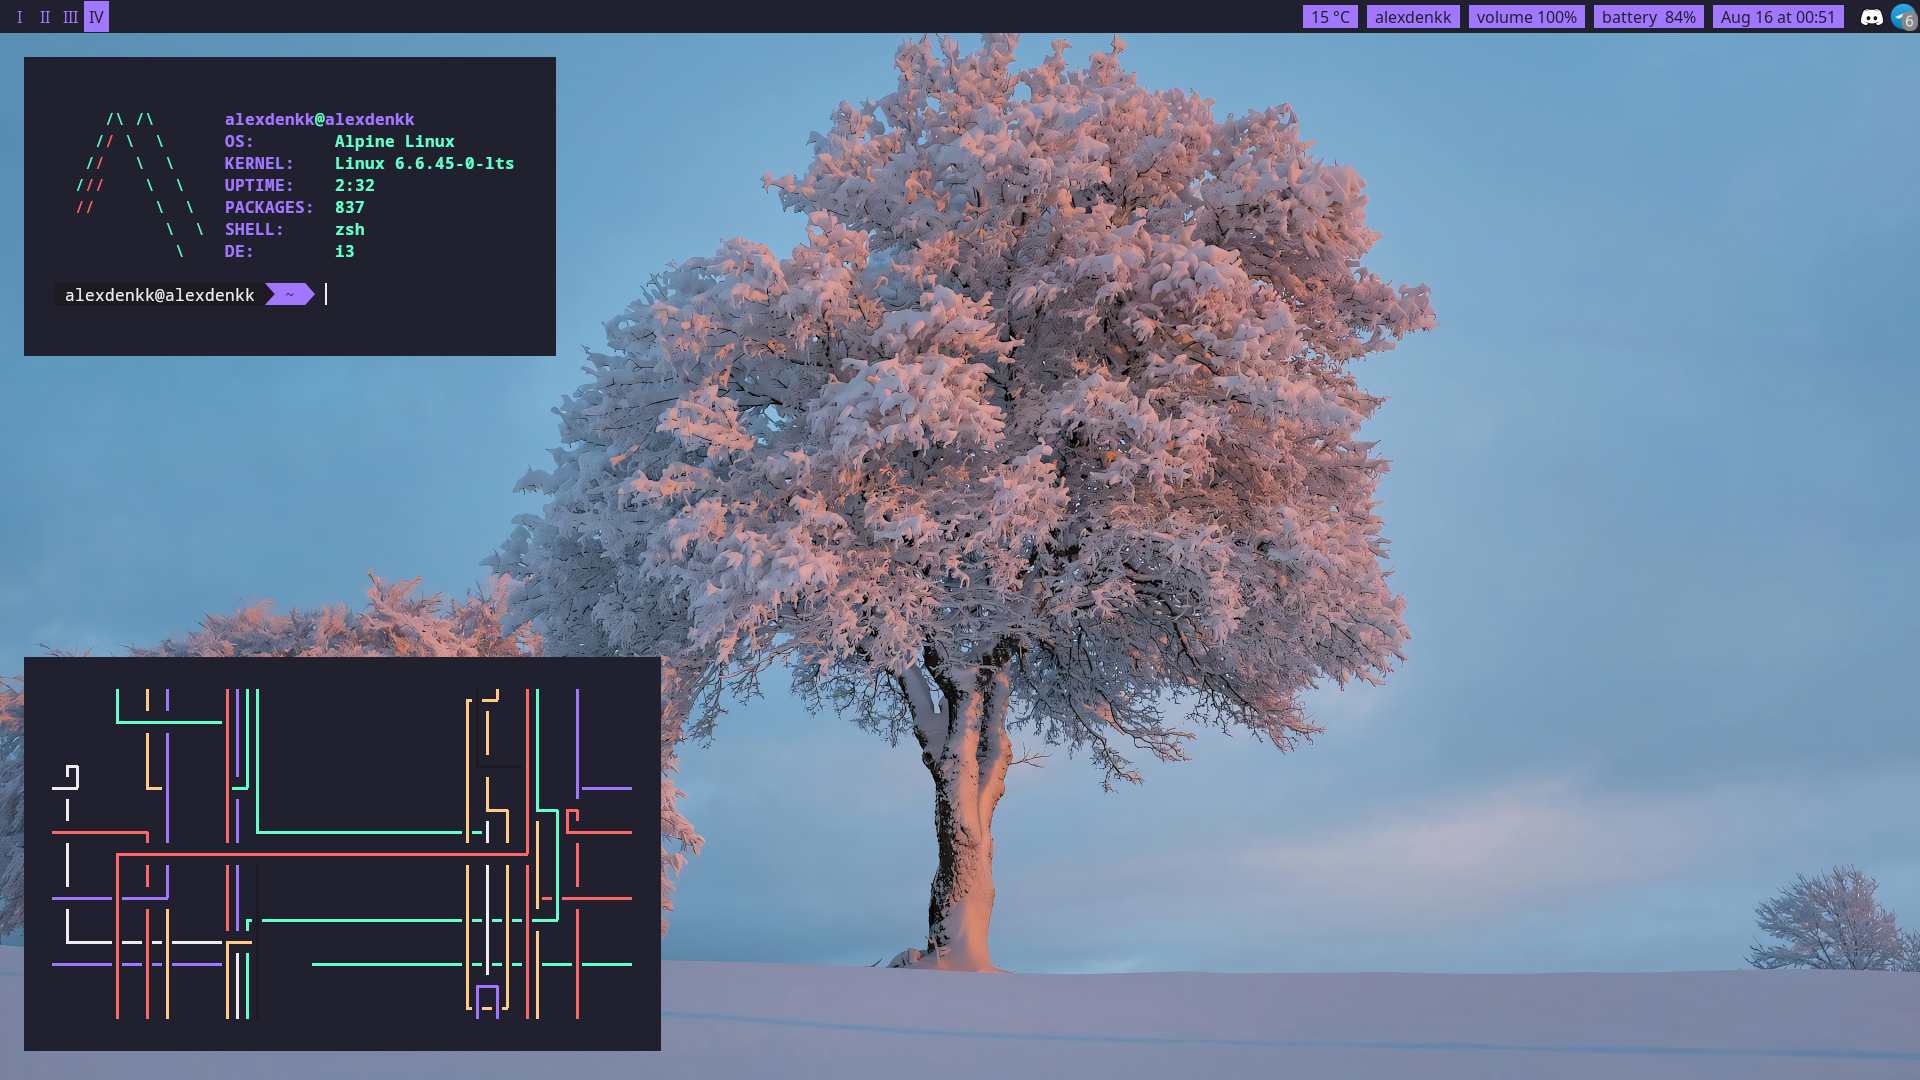
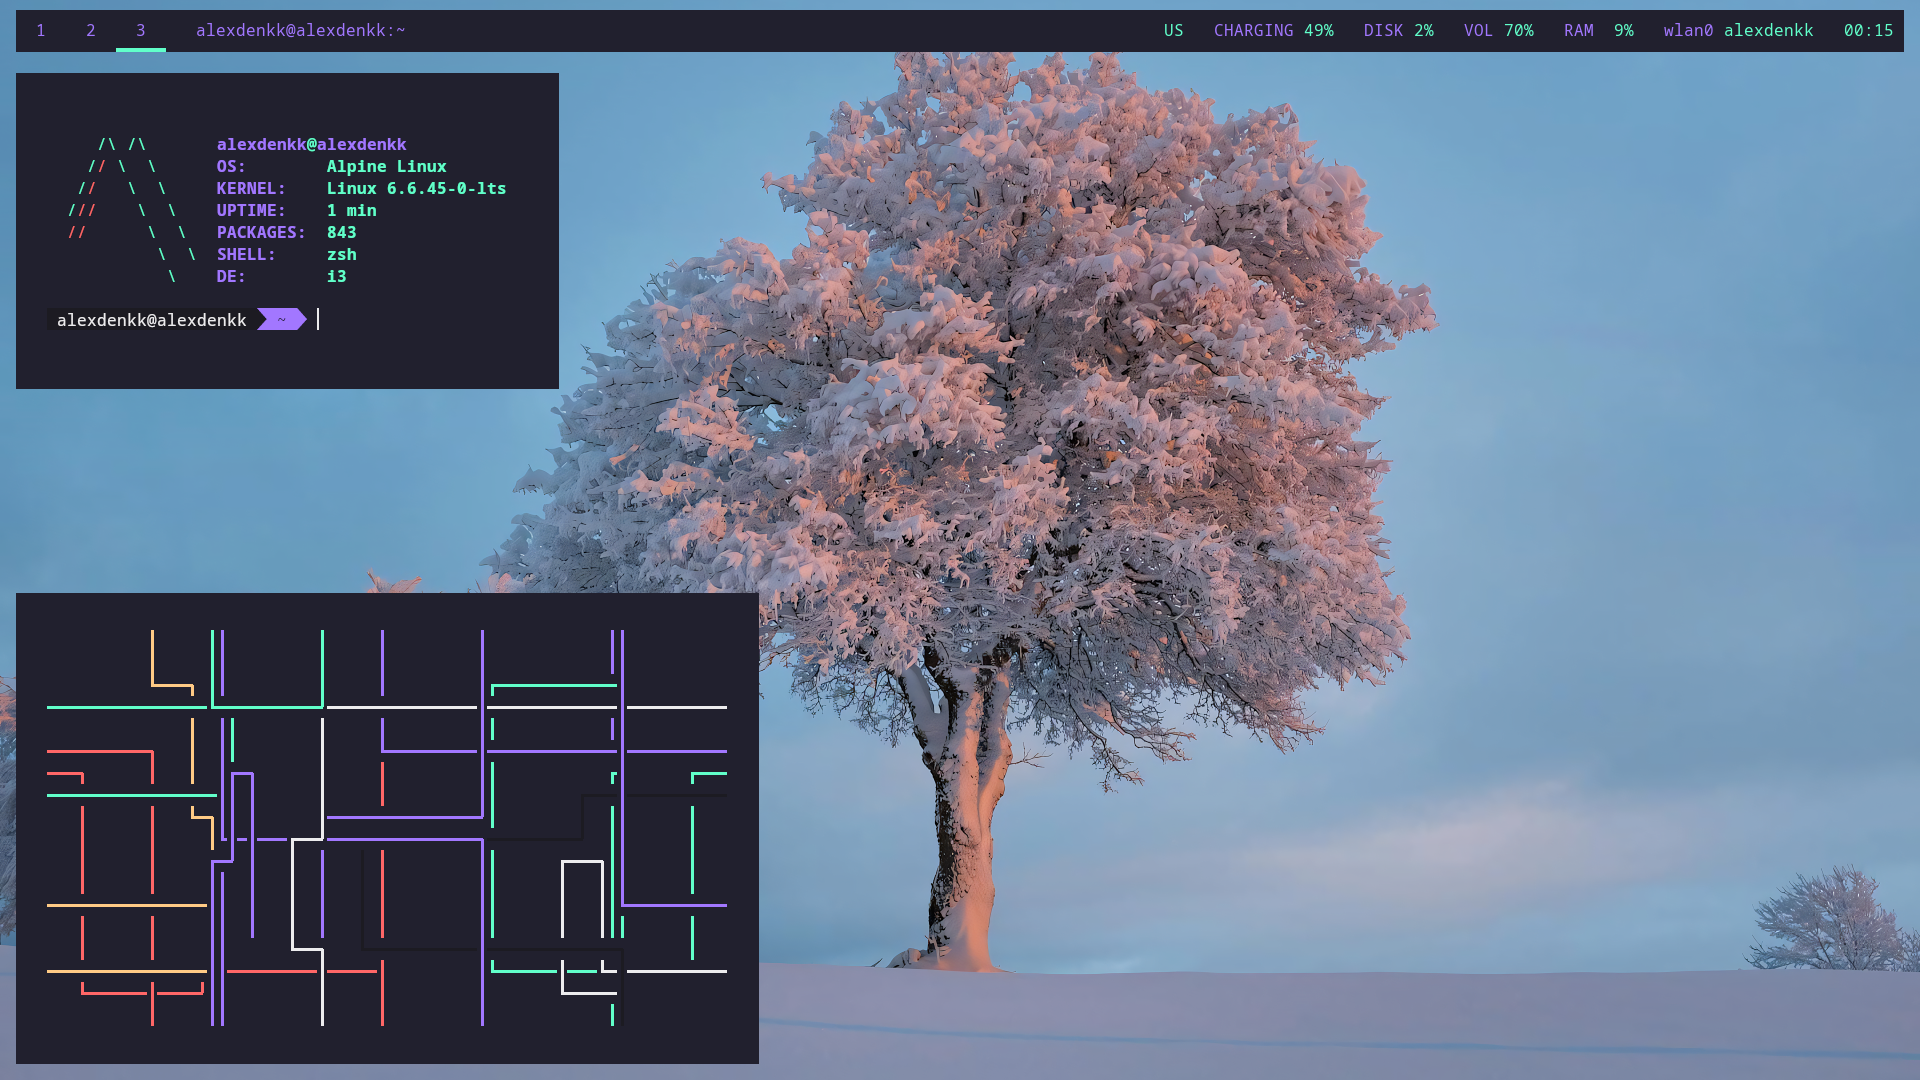
Помогите...

Changed region(s): [[0.0, 0.55, 0.4062, 1.0], [0.0, 0.0, 1.0, 0.3667]]

diff --git a/README.md b/README.md
@@ -1,5 +1,5 @@
 # dotfiles
- My dotfiles using alpine/i3/i3status/kitty/dunst/micro
+ My dotfiles using alpine/i3/polybar/kitty/dunst/micro
 
 # view
 <img src="https://raw.githubusercontent.com/alexdenkk/dotfiles/main/screenshots/screen.png">
